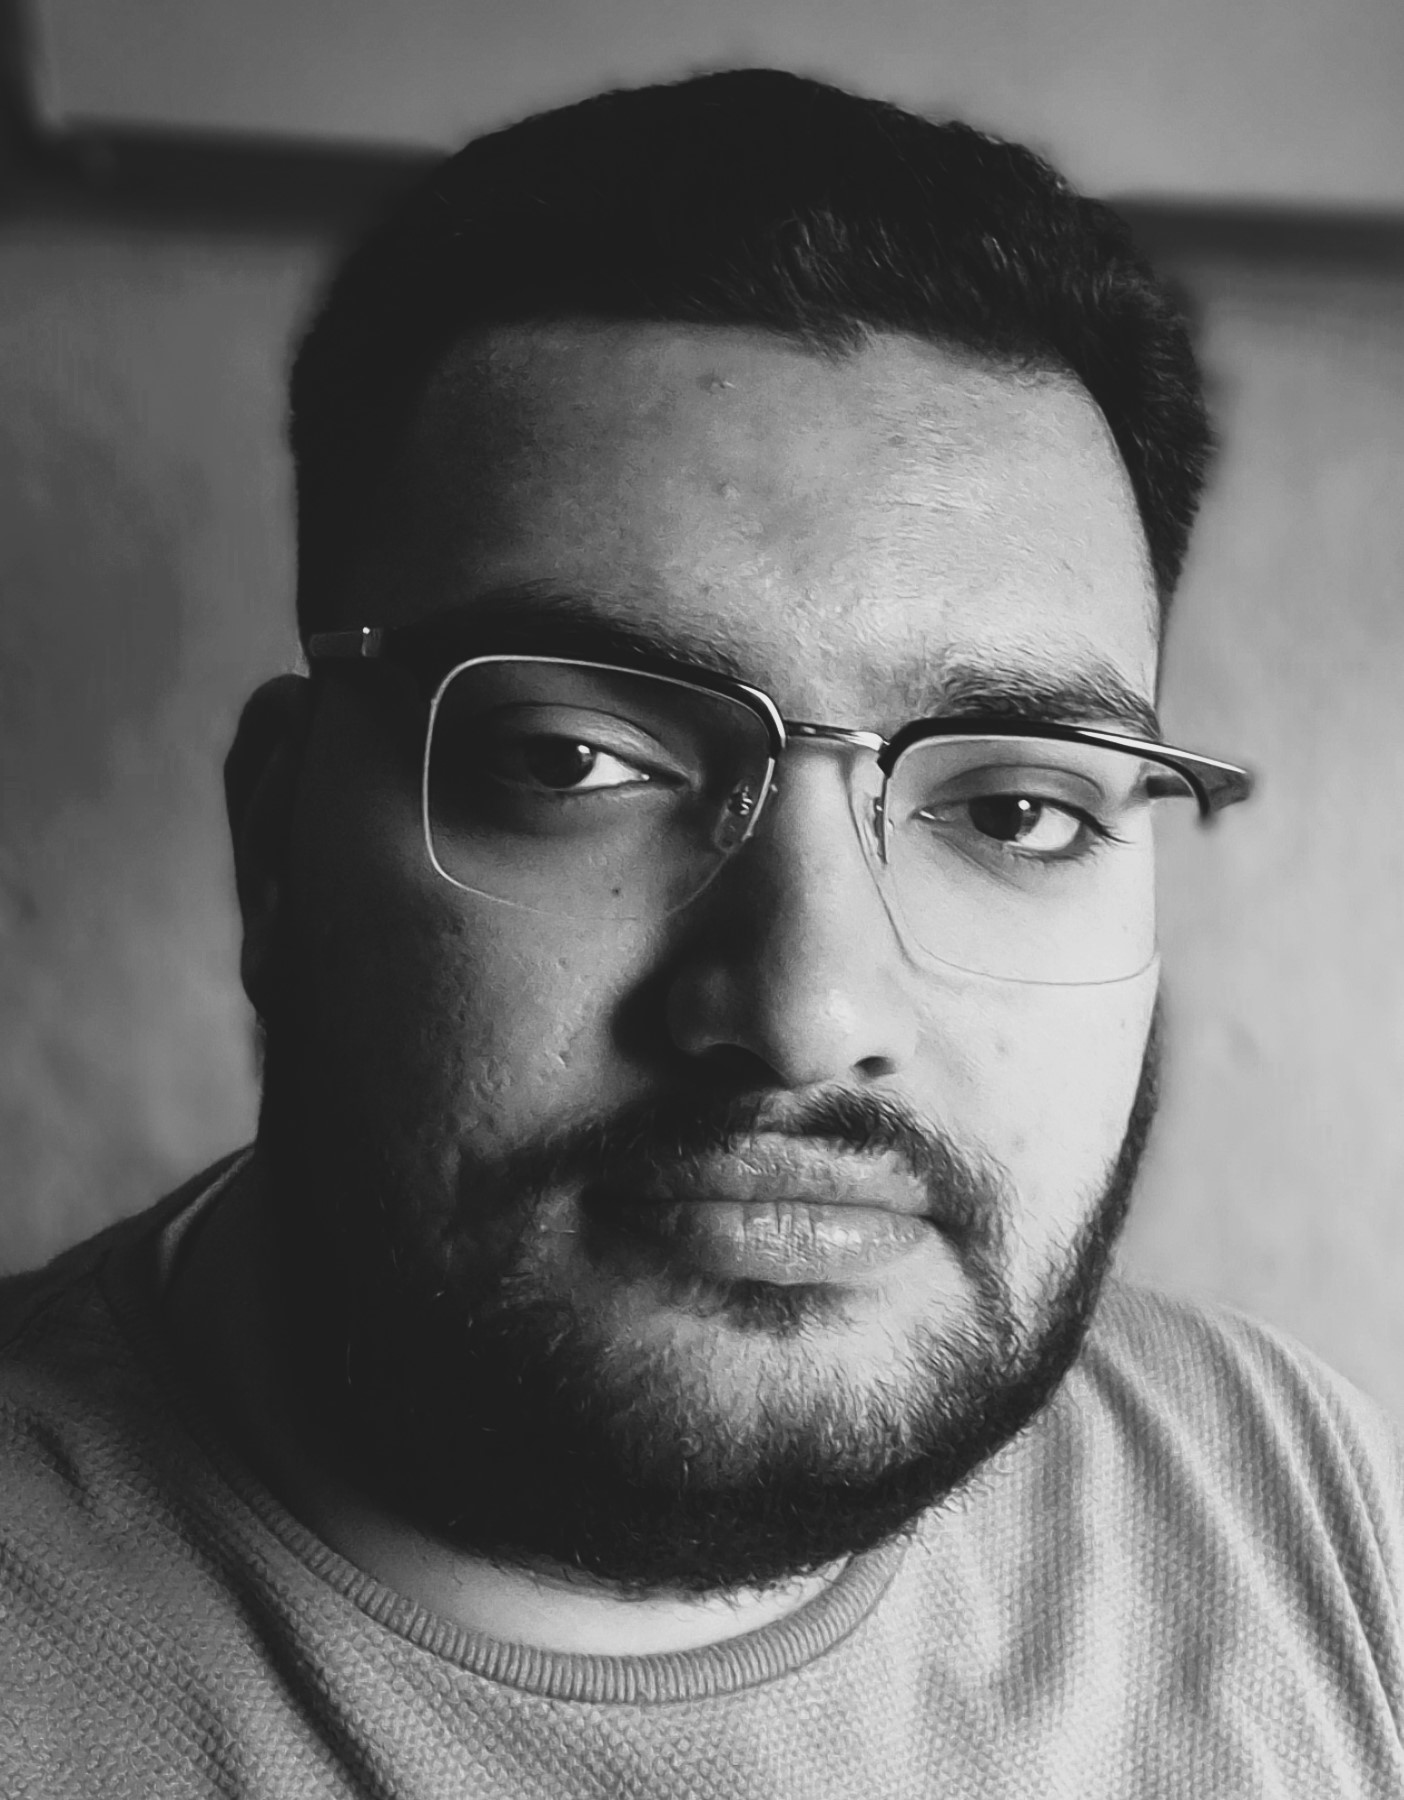
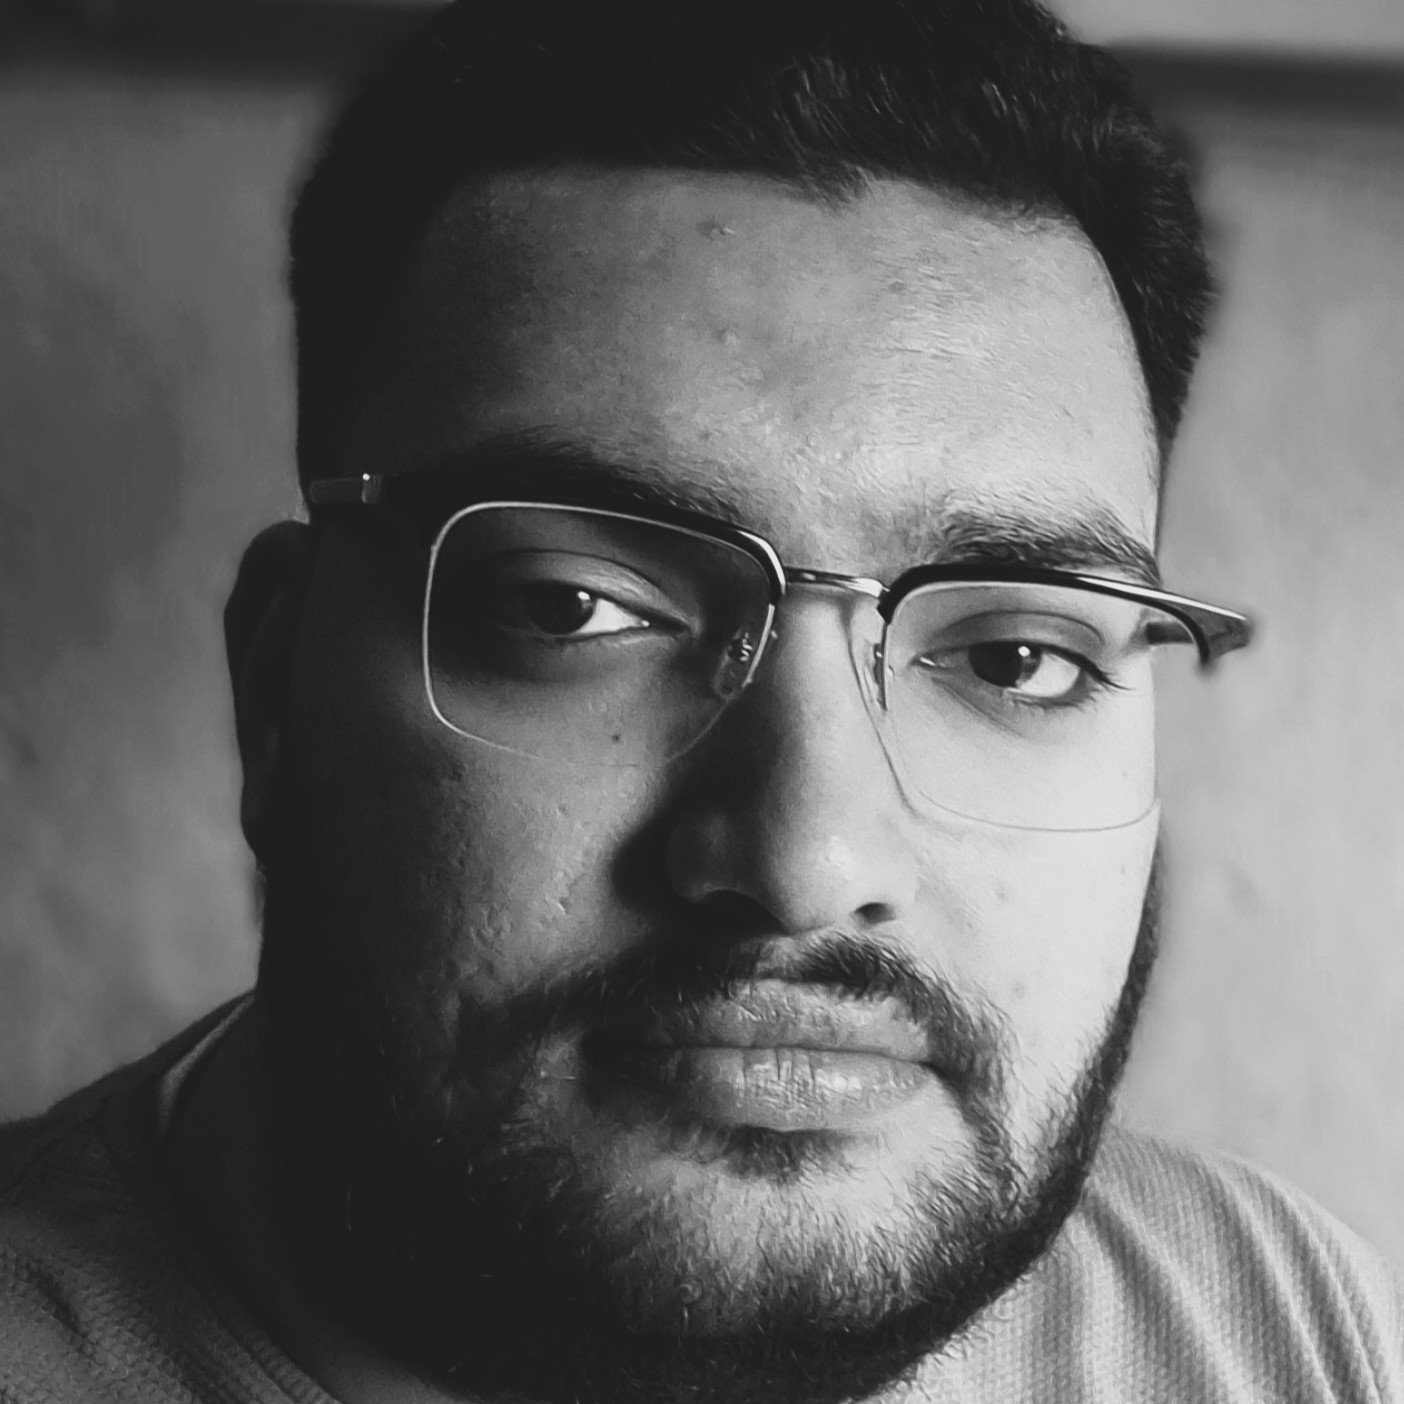
Changed photo and position

diff --git a/index.html b/index.html
@@ -39,7 +39,7 @@
     <section id="profile">
       <div class="section__pic-container">
         <img
-          src="./assets/profile-pic.png "
+          src="./assets/profile-pic.jpg "
           alt="Shivanshu Singh profile picture"
         />
       </div>
@@ -166,7 +166,7 @@
                 />
                 <div>
                   <h3>JavaScript</h3>
-                  <p>Basic</p>
+                  <p>Experienced</p>
                 </div>
               </article>
               <article>
@@ -187,8 +187,8 @@
                   class="icon"
                 />
                 <div>
-                  <h3>C/C++</h3>
-                  <p>Basic</p>
+                  <h3>C</h3>
+                  <p>Intermediate</p>
                 </div>
               </article>
             </div>

diff --git a/style.css b/style.css
@@ -304,7 +304,9 @@ section {
 }
 
 .about-pic {
-    border-radius: 2rem;
+    border-radius: 5rem;
+    width: 1000px;
+    height: auto;
 }
 
 .arrow {
@@ -314,7 +316,7 @@ section {
 }
 
 .details-container {
-    padding: 1.5rem;
+    padding: 2rem;
     flex: 1;
     background: white;
     border-radius: 2rem;
